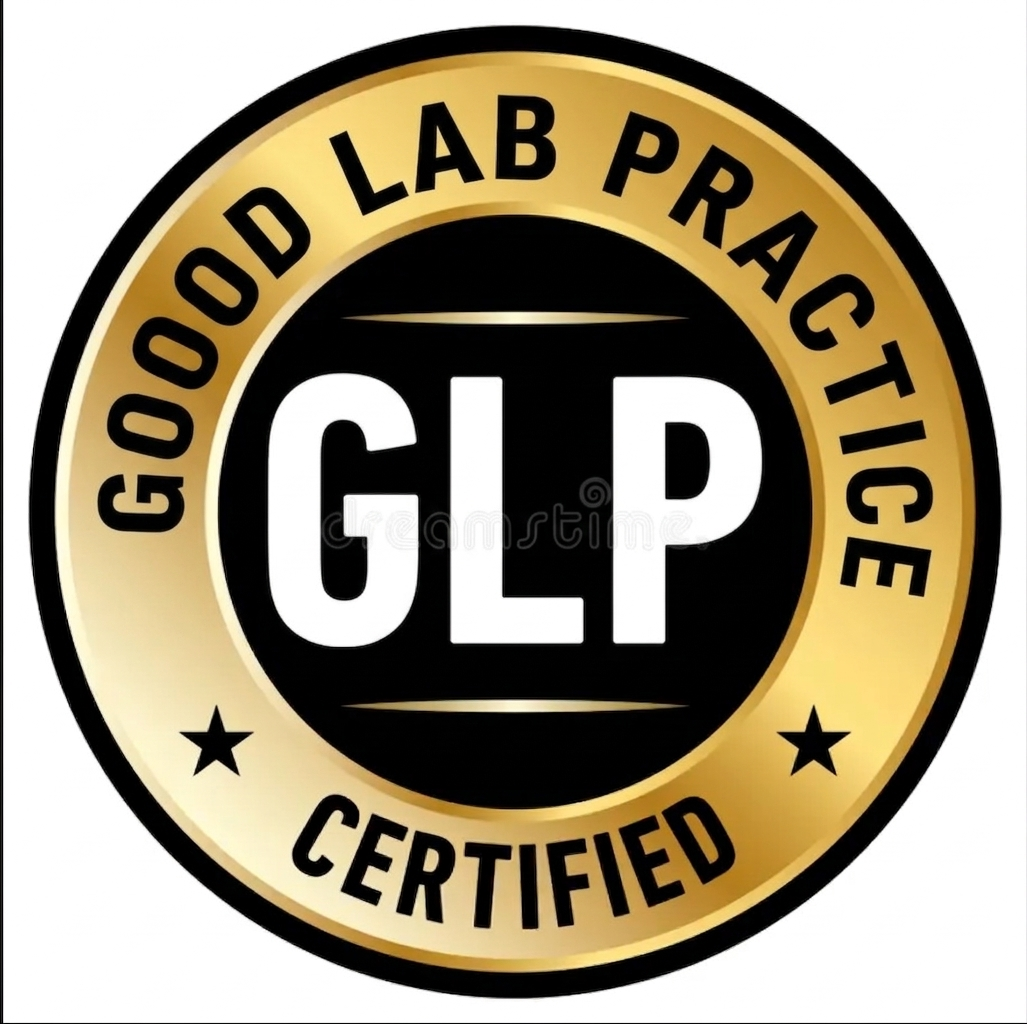
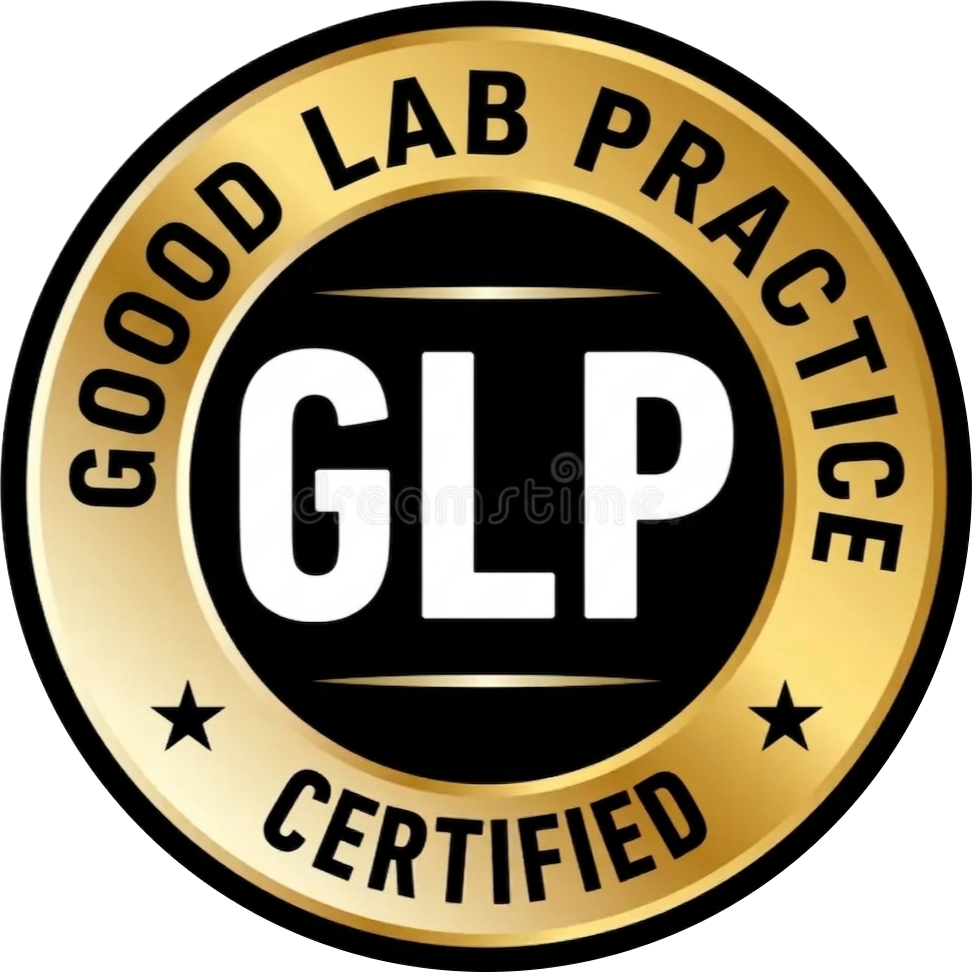
Update certification images and CSS
Replace certification PNG assets (FDA, GLP, GMP, ISO, WHO) with updated files and adjust CertificationShowcase styles: make .cert-image wrapper use auto sizing, set background to transparent, remove box-shadow, and increase inner img dimensions from 80px to 120px (maintaining object-fit and transitions). These tweaks improve image clarity and remove the soft white glow for a cleaner display, while preserving responsive behavior.

diff --git a/src/components/CertificationShowcase.css b/src/components/CertificationShowcase.css
@@ -22,10 +22,11 @@
 /* ===== IMAGE WRAPPER ===== */
 .cert-image {
   position: relative;
-  width: 120px;
-  height: 120px;
+  width: auto;
+  height: auto;
   border-radius: 50%;
-  background: white;
+  background: transparent;
+  box-shadow: none; /* optional: removes that soft white glow feel */
   display: flex;
   align-items: center;
   justify-content: center;
@@ -39,8 +40,8 @@
 
 /* ===== IMAGE ===== */
 .cert-image img {
-  width: 80px;
-  height: 80px;
+  width: 120px;
+  height: 120px;
   object-fit: contain;
   transition: transform 0.35s ease, filter 0.35s ease;
 }
@@ -93,8 +94,8 @@
   }
 
   .cert-image {
-    width: 100px;
-    height: 100px;
+    width: auto;
+    height: auto;
   }
 
   .cert-image img {
